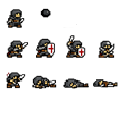
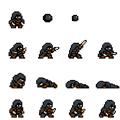
GHAZI INTRODUCCION

diff --git a/morosycristianos_archon/src/coordinador/sources/dibujatablero.cpp b/morosycristianos_archon/src/coordinador/sources/dibujatablero.cpp
@@ -822,6 +822,7 @@ void DibujaTablero::tablero_pieza_individual(Tablerogl& t, int fil, int col) {
         EstadoPersonaje estadoBallestero = EstadoPersonaje::IDLE;
         bool moviendo = false;
 
+
         // Si la pieza se está moviendo, cambiamos su estado a ATTACK
         if (t._animMov.activa && t._animMov.pieza == casilla.obj) {
             moviendo = true;
@@ -846,50 +847,72 @@ void DibujaTablero::tablero_pieza_individual(Tablerogl& t, int fil, int col) {
     case pieza_cubo_p:
     {
 
-        //dibujo MILICIANO
-        // Solo dibujamos para el bando cristiano
-        if (casilla.bando != bando_local) {
-            glutSolidCube(escala * 0.75f);
-            glPopMatrix();
-            return;
-        }
-
-
         // Capturamos matrices ANTES de salir del contexto 3D
         GLdouble winX, winY, winZ;
-        
+
         // Usamos la posición z donde están las piezas
         gluProject(cx, cy, 0.01, model, proj, view, &winX, &winY, &winZ);
 
         glPopMatrix();
 
         // Calculamos posición y tamaño en el plano 2D de la ventana
-        float size = (Tablerogl::_anchoVentana * 0.595f / t.N) * 0.95f;
-        float px = (float)winX - size * 0.45f;
-        float py = (float)winY + size * 0.1f;
+
 
         util_entrar2D(Tablerogl::_anchoVentana, Tablerogl::_altoVentana);
         glDisable(GL_LIGHTING);
 
-        
-
-        EstadoPersonaje estadoMiliciano = EstadoPersonaje::IDLE;
-        bool moviendo = false;
-
-        // Si la pieza se está moviendo, cambiamos su estado a ATTACK
-        if (t._animMov.activa && t._animMov.pieza == casilla.obj) {
-            moviendo = true;
-            estadoMiliciano = EstadoPersonaje::IDLE;
-        }
 
         // Le pedimos a la pieza su ID único en lugar de usar un contador global
         TipoPersonaje tipo = dibujapersonajes::tipoDesdePieza(casilla.pieza, casilla.bando);
         int idAnim = casilla.obj ? casilla.obj->getIdAnimacion() : 0;
 
-        // Dibujamos el miliciano usando su ID
-        _dibujador.dibujar(tipo, px, py, size,
-            EstadoPersonaje::IDLE, idAnim, false);
-        util_salir2D();
+        bool voltear = (casilla.bando == bando_rival);
+
+
+        EstadoPersonaje estadoMiliciano = EstadoPersonaje::IDLE;
+        bool moviendo = false;
+
+
+        // Para ghazi: 
+        if (casilla.bando != bando_local) {
+            // Calculamos posición y tamaño en el plano 2D de la ventana
+            float size = (Tablerogl::_anchoVentana * 0.595f / t.N) * 0.85f;
+            float px = (float)winX + size * 0.35f;
+            float py = (float)winY + size * 0.2f;
+
+            if (t._animMov.activa && t._animMov.pieza == casilla.obj) {
+                moviendo = true;
+                estadoMiliciano = EstadoPersonaje::IDLE;
+
+            }
+
+            _dibujador.dibujar(tipo, px, py, size,
+                estadoMiliciano, idAnim, moviendo, voltear);
+            util_salir2D();
+            return;
+        }
+        //para emir
+        else {
+
+            // Calculamos posición y tamaño en el plano 2D de la ventana
+            float size = (Tablerogl::_anchoVentana * 0.595f / t.N) * 0.8f;
+            float px = (float)winX - size * 0.3f;
+            float py = (float)winY + size * 0.1f;
+
+            if (t._animMov.activa && t._animMov.pieza == casilla.obj) {
+                moviendo = true;
+                estadoMiliciano = EstadoPersonaje::IDLE;
+
+            }
+
+            _dibujador.dibujar(tipo, px, py, size,
+                estadoMiliciano, idAnim, moviendo, voltear);
+            util_salir2D();
+            return;
+
+        }
+        //dibujo MILICIANO
+       
         return;
     }
     break;

diff --git a/morosycristianos_archon/src/coordinador/sources/dibujapersonajes.cpp b/morosycristianos_archon/src/coordinador/sources/dibujapersonajes.cpp
@@ -27,6 +27,8 @@ const char* dibujapersonajes::rutaImagen(TipoPersonaje tipo) {
         return "imagenes\\CABALLERIA_PESADA.png";  
     case TipoPersonaje::BALLESTERO:
             return "imagenes\\BALLESTERO_SISISI.png";
+    case TipoPersonaje::GHAZI:
+        return "imagenes\\GHAZI.png";
 
     default:                            
         return "";
@@ -39,7 +41,7 @@ const char* dibujapersonajes::rutaImagen(TipoPersonaje tipo) {
 TipoPersonaje dibujapersonajes::tipoDesdePieza(TipoPieza pieza, BandoPieza bando) {
     switch (pieza) {
     case pieza_cubo_p:     
-        return TipoPersonaje::MILICIANO;
+        return (bando == bando_rival) ? TipoPersonaje::GHAZI : TipoPersonaje::MILICIANO;
     case pieza_dodecaedro:  
         return (bando == bando_rival) ? TipoPersonaje::ASESINO_DE_ELITE : TipoPersonaje::INFILTRADO;
     case pieza_cubog:       

diff --git a/morosycristianos_archon/src/coordinador/sources/dibujaarena.cpp b/morosycristianos_archon/src/coordinador/sources/dibujaarena.cpp
@@ -182,8 +182,18 @@ void DibujaArena::arena_dibujar(const Arena& arena, Batalla batalla) {
 
             //si no es atacante, voltea (va a estar en el lado derecho de la arena, necesita girarse)
             voltear = !esAtacante;
-        }
 
+        }
+        else if (c.nombre() == "Ghazi") {
+            //devuelve el tipo de personaje EMIR
+            tipo = TipoPersonaje::GHAZI;
+
+            //si es atacante (P1 SIMEPRE ATACA) devuelve true
+            bool esAtacante = (&c == &arena.p1());
+
+            //si no es atacante, voltea (va a estar en el lado derecho de la arena, necesita girarse)
+            voltear = !esAtacante;
+        }
         float size = _anchoVentana * 0.15f;
 
         //convertir a 2d

diff --git a/morosycristianos_archon/src/tablero/sources/tablero.cpp b/morosycristianos_archon/src/tablero/sources/tablero.cpp
@@ -171,6 +171,17 @@ void Tablero::iniPiezas()//coloca las piezas en sus posiciones iniciales
 	poner(8, 7, pieza_cilindro, bando_rival, new Ballestero(Bando::ANDALUSI));
 	
 
+	int idMilici = 0; //contador ID para milicianos
+
+
+	//asignamos ID para cada miliciano
+	for (int fila = 1; fila <= 7; fila++) {
+		Pieza* mRival = new Miliciano(Bando::ANDALUSI);
+		mRival->setIdAnimacion(idMiliciano); // Le damos ID 0, 1, 2...
+		idMiliciano++;
+		poner(fila, 7, pieza_cubo_p, bando_rival, mRival);
+	}
+
 
 	int idRey = 0; // Contador de IDs para infiltrado
 

diff --git a/morosycristianos_archon/src/coordinador/headers/dibujapersonajes.h b/morosycristianos_archon/src/coordinador/headers/dibujapersonajes.h
@@ -17,6 +17,7 @@ enum class TipoPersonaje {
     INFILTRADO,
     CABALLERIA_PESADA,
     BALLESTERO,
+    GHAZI,
     TOTAL  // siempre al final, cuenta cuántos hay
 };
 
